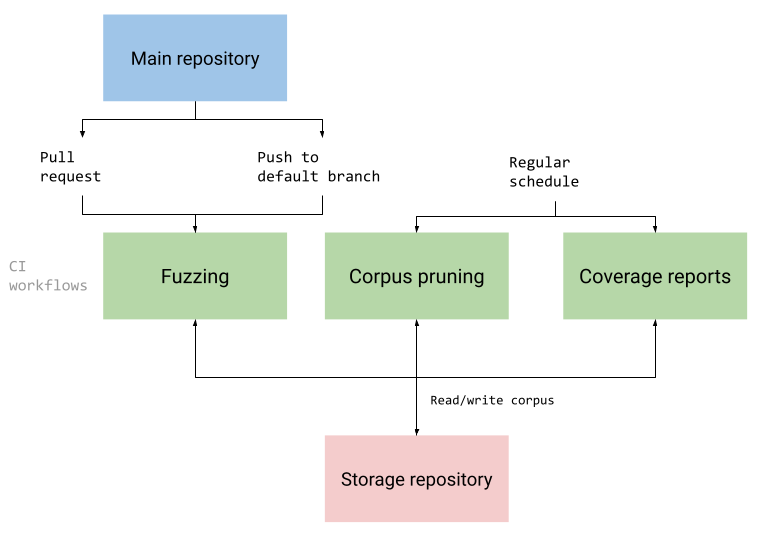
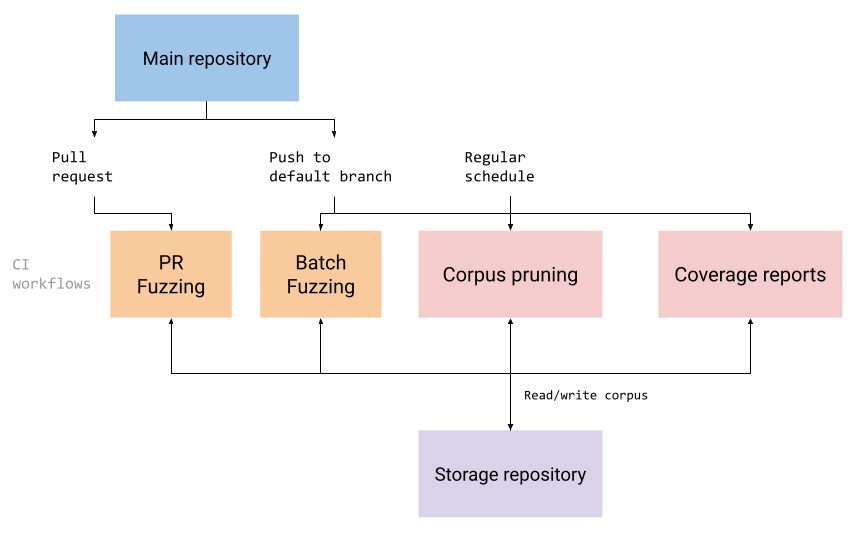
more tweaks

diff --git a/docs/running_clusterfuzzlite.md b/docs/running_clusterfuzzlite.md
@@ -34,34 +34,39 @@ ClusterFuzzLite is broken up into several tasks, which run as workflows on your 
 One of the core ways for ClusterFuzzLite to be used is for fuzzing code changes
 which were introduced in a pull request.
 
-This use-case is important because it allows ClusterFuzzLite to find bugs before
-they are commited into your code and while they are easiest to fix.
+This allows ClusterFuzzLite to find bugs before they are commited into your
+code and while they are easiest to fix.
 
 If [Batch Fuzzing] is enabled, Code Review Fuzzing will report only newly
 introduced bugs and use the corpus developed during batch fuzzing.
-If [Code Coverage Reporting] is enabled, Code Review Fuzzing will try to only
-run the fuzzers affected by the code change.
+If [Code Coverage report generation] is enabled, Code Review Fuzzing will try
+to only run the fuzzers affected by the code change.
 
 ### Batch Fuzzing
 
 ClusterFuzzLite can also run in a batch fuzzing mode where all fuzzers are run
-for a long amount of time. Unlike Code Review Fuzzing, this task is is meant to
-be long running. Batch Fuzzing allows ClusterFuzzLite to build up a corpus
-for each of your fuzz targets. This corpus will be used in Code Coverage
-Reporting as well as Code Review Fuzzing.
+for a long amount of time. This allows ClusterFuzzLite to build up a [corpus]
+for each of your fuzz targets, leading to more code coverage and better bug
+discovery. This corpus will be used in [Code Coverage report generation] as
+well as Code Review Fuzzing.
+
+[corpus]: https://github.com/google/fuzzing/blob/master/docs/glossary.md#corpus
 
 ### Corpus Pruning
 
-Over time redundant testcases may get introduced into your corpus during
-fuzzing.  Running this the corpus pruning task once a day will prevent buildup
-of these redundant testcases.
+Corpus pruning minimizes a corpus by removing redundant items while keeping the
+same code coverage. 
 
-### Code Coverage Report
+Over time redundant testcases may get introduced into your corpus during
+fuzzing. Running the corpus pruning task once a day will prevent buildup of
+these redundant testcases and keep fuzzing efficient.
+
+### Code Coverage report generation
 
 ClusterFuzzLite also provides code coverage report generation. This task will
-run your fuzzers on the corpus developed during Batch Fuzzing and will generate
-an HTML report that shows you which part of your code is covered by batch
-fuzzing.
+run your fuzzers on the corpus developed during [Batch Fuzzing] and will
+generate an HTML report that shows you which part of your code is covered by
+batch fuzzing.
 
 ## Configuration Options
 
@@ -90,4 +95,9 @@ value is `false`. When set to `true`, ClusterFuzzLite will never report a
 failure even if it finds a crash in your project. This requires the user to
 manually check the logs for detected bugs.
 
-TODO(metzman): We probably want a TOC on this page for subguides.
+## Supported Continous Integration systems
+
+- [GitHub Actions]({{ site.baseurl }}/running-clusterfuzzlite/github-actions/)
+
+[Batch Fuzzing]: #batch-fuzzing
+[Code Coverage report generation]: #code-coverage-report-generation

diff --git a/docs/overview.md b/docs/overview.md
@@ -16,7 +16,7 @@ ClusterFuzzLite makes fuzzing more valuable by:
 * Managing your corpus, pruning it daily or a specified-interval.
 
 ClusterFuzzLite supports [libFuzzer], [AddressSanitizer], and
-[UndefinedBehavior].
+[UndefinedBehaviorSanitizer].
 ClusterFuzzLite is modular, so you can decide which features you want to use.
 Using ClusterFuzzLite entails two major steps:
 1. [Integrating with ClusterFuzzLite's build system] so ClusterFuzzLite can

diff --git a/docs/running-clusterfuzzlite/github_actions.md b/docs/running-clusterfuzzlite/github_actions.md
@@ -13,9 +13,6 @@ permalink: /running-clusterfuzzlite/github-actions/
 {:toc}
 ---
 
-ClusterFuzzLite can be configured in a number of ways to enable both PR and
-batch fuzzing.
-
 We recommend having separate workflow files for each part of ClusterFuzz Lite:
 
 - `.github/workflows/cflite_build.yml` (for building/continuous fuzzing)
